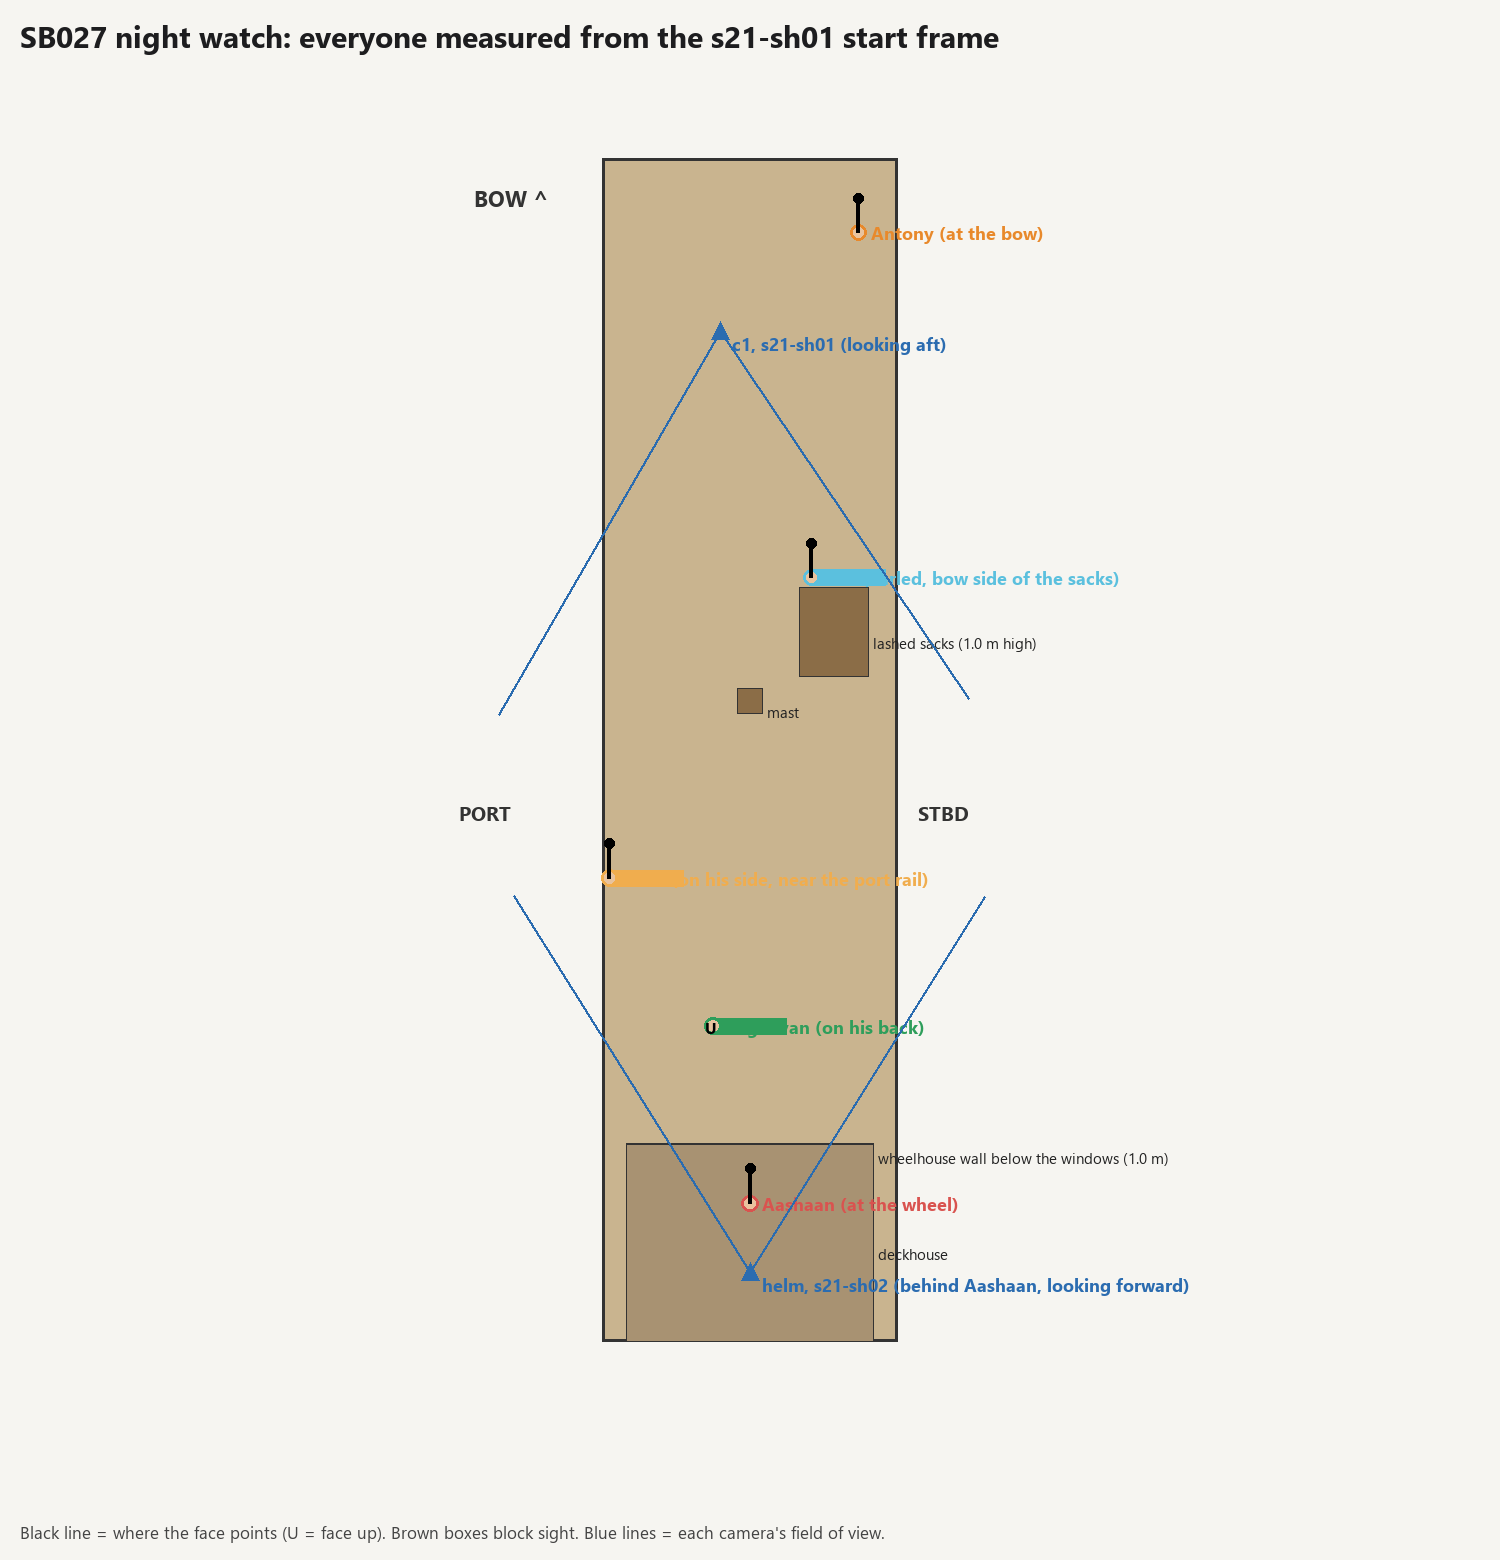
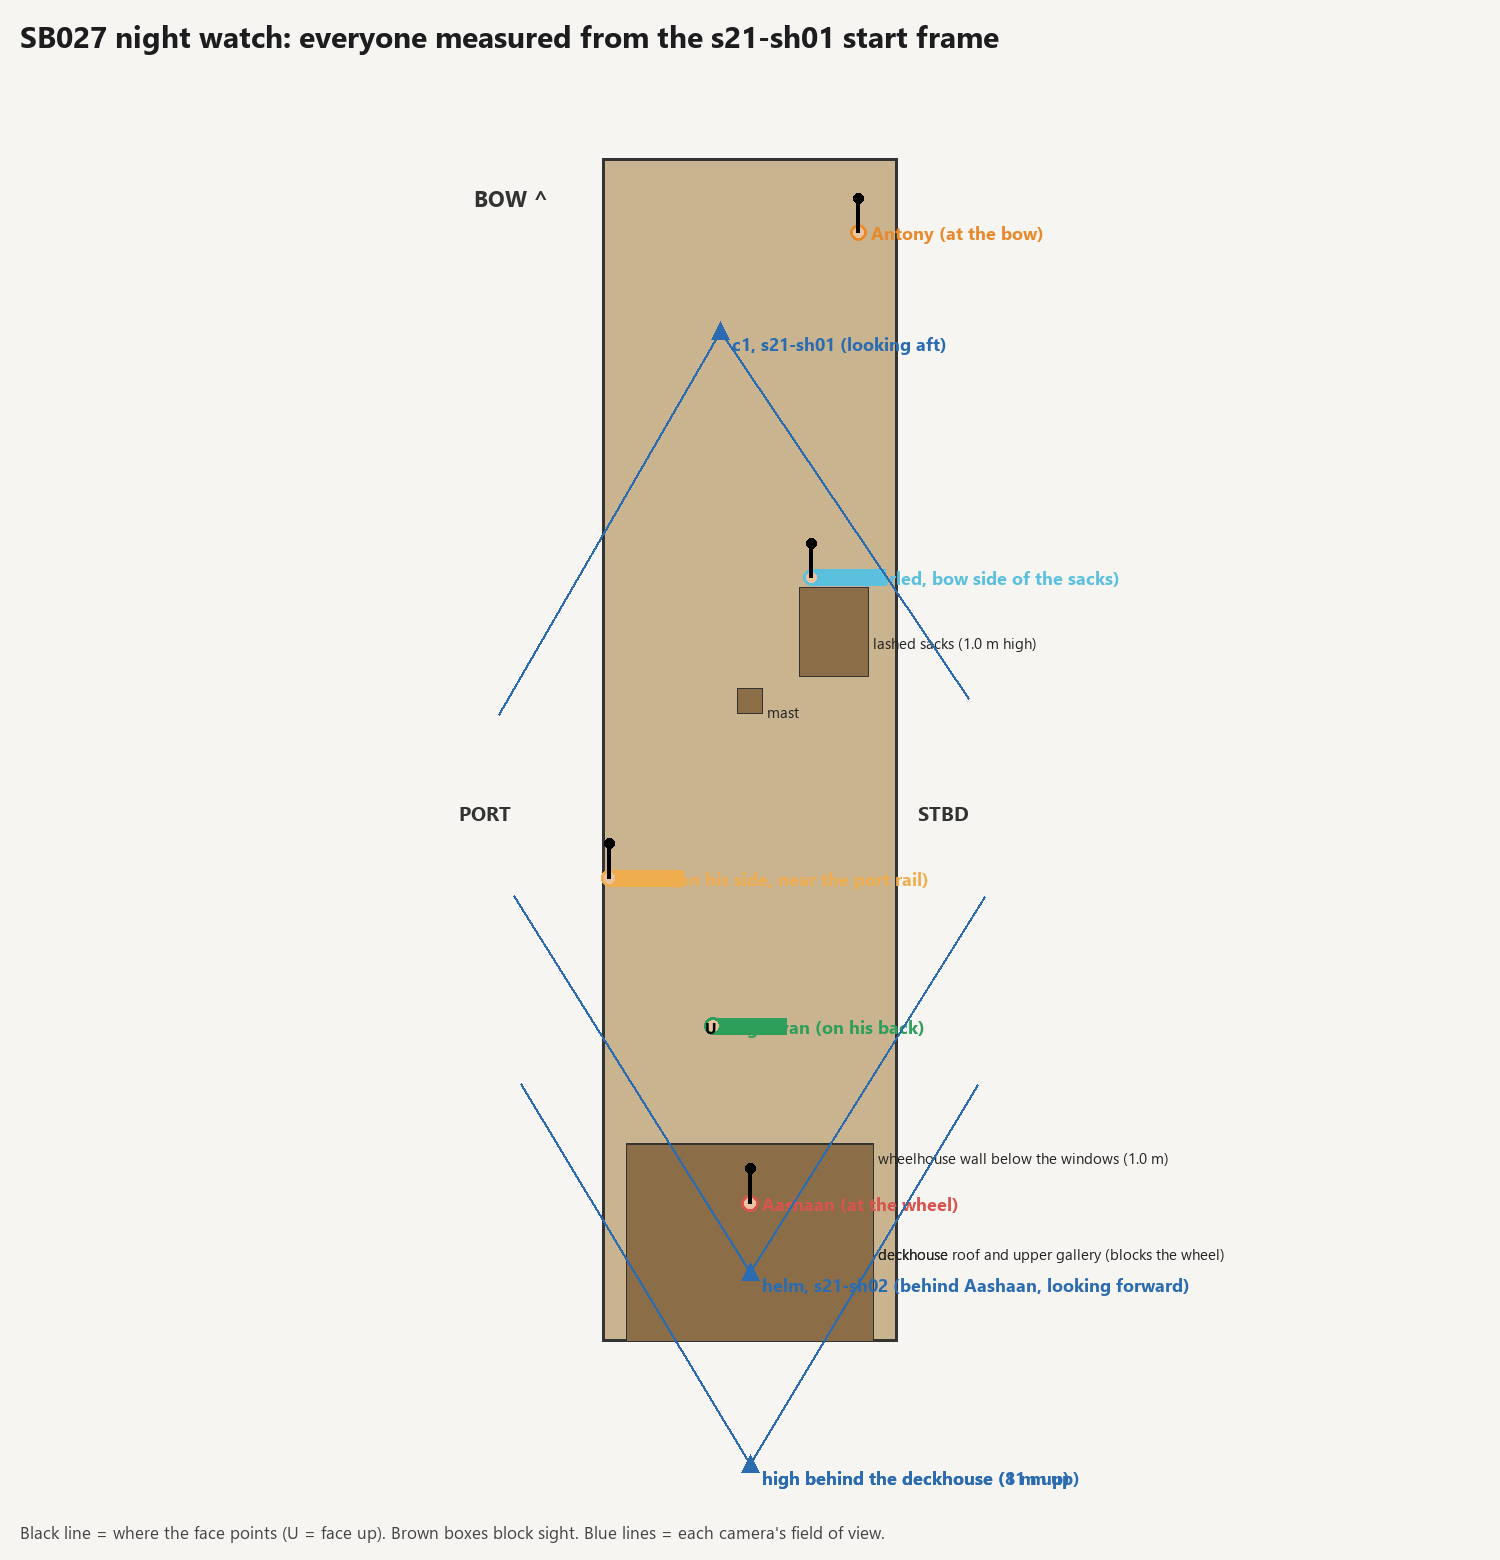
Ranjith: undo: s21-sh02 helm start not approved (only the s21-sh01 start is); high camera added to the SB027 map

Changed region(s): [[0.3987, 0.7077, 0.5827, 0.8615], [0.4907, 0.9231, 0.7053, 0.9538]]

diff --git a/INDEX.md b/INDEX.md
@@ -117,9 +117,8 @@ Status: `approved` · `waiting for approval` · `retired`
 | `@burningvallam` | Selvan's small Kerala fishing vallam burning at night: long, low, narrow, flat sides, no raised ends, no sail; white hull with faded blue band, nets and oars inside, fire strongest at one end, smoke column; no people | SB029–SB033, every shot where the burning boat is on screen; lock its size when far (ahead-LEFT of the bow); the moon in the image is not part of it | `props/burningvallam/prop.png` | Ranjith | 2026-11-07 | approved |
 | `@s21sh02start` | START frame of s21-sh02 (v2, Kling O1, natural low light): inside the deckhouse at night, Aashaan from directly behind at the wheel, both hands on the spokes, towel on his left shoulder, one dim lantern, Antony small at the bow through the window | Start image of s21-sh02 (and any helm shot from behind) | `scenes/showreel/approved/s21-sh02-start.png` | Ranjith | 2026-11-07 | retired (half moon; replaced by the full-moon version, 2026-11-11) |
 | `@s21sh02startfullmoon` | START frame of s21-sh02 on the full-moon night: Aashaan from directly behind at the wheel, both hands on the spokes, towel on his left shoulder, warm lantern; full moon high RIGHT through the windows, Antony small at the bow | Start image of s21-sh02 (replaces @s21sh02start) | `scenes/showreel/approved/s21-sh02-start-fullmoon.png` | Ranjith | 2026-11-11 | retired (old bow through the windows; replaced by the 2 version, L143) |
-| `@s21sh02startfullmoon2` | START frame of s21-sh02 on the full-moon night: Aashaan from directly behind at the wheel, both hands on the spokes, towel on his left shoulder, warm lantern; through the windows our bow as on @urubowplate, Antony small at the right-hand bulwark near the stem, full moon high RIGHT | Start image of s21-sh02 | `scenes/showreel/approved/s21-sh02-start-fullmoon2.png` | Ranjith | 2026-11-11 | retired (sleepers missing; replaced by @s21sh02startfullmoon3, L145/L146) |
+| `@s21sh02startfullmoon2` | START frame of s21-sh02 on the full-moon night: Aashaan from directly behind at the wheel, both hands on the spokes, towel on his left shoulder, warm lantern; through the windows our bow as on @urubowplate, Antony small at the right-hand bulwark near the stem, full moon high RIGHT | Start image of s21-sh02 | `scenes/showreel/approved/s21-sh02-start-fullmoon2.png` | Ranjith | 2026-11-11 | approved |
 | `@s21sh01startfullmoon` | START frame of s21-sh01 (21:9): main deck looking aft on the full-moon night, no moon in the sky; Aashaan at the wheel in the middle window; Raghavan on his back in the middle, Babu on his side near the port rail, Sasi curled on the bow side of the sacks; positions mapped in `storyboards/s21-sh01-sh02-sightlines.json` | Start image of s21-sh01 | `scenes/showreel/approved/s21-sh01-start-fullmoon.png` | Ranjith | 2026-11-12 | approved |
-| `@s21sh02startfullmoon3` | START frame of s21-sh02 (21:9), built from the measured map (L146): Aashaan from behind at the wheel; through the windows only Babu's back (left, through the door) and Antony's back at the right-hand bulwark; Sasi hidden by the sacks, Raghavan hidden below the sill; our bow; full moon in the right-hand window | Start image of s21-sh02 | `scenes/showreel/approved/s21-sh02-start-fullmoon3.png` | Ranjith | 2026-11-12 | approved |
 | `@s21sh03startfullmoon` | START frame of s21-sh03 (21:9): Antony from behind three-quarters at the right-hand bulwark of our bow (as on @urubowplate), left hand on the rail; full moon high RIGHT with its silver path; mast with its lantern at the left | Start image of s21-sh03 (and the bow view of SB028) | `scenes/showreel/approved/s21-sh03-start-fullmoon.png` | Ranjith | 2026-11-12 | approved |
 | `@steelplate` | Raghavan's steel plate and spoon, one prop: round worn stainless-steel thali about 30 cm, low rim, two small dents; plain steel table spoon about 18 cm (plate from above and on edge, spoon from above and side) | Every shot with the plate or spoon in frame (song on deck), with @raghavan: plate in his LEFT hand, spoon in his RIGHT; not for the fish-serving plate | `props/steelplate/prop.webp` | Aswanth | 2026-11-07 | approved |
 

diff --git a/scenes/showreel/storyboards/s21-sh01-sh02-sightlines.md b/scenes/showreel/storyboards/s21-sh01-sh02-sightlines.md
@@ -21,3 +21,23 @@ Made with `tools/sightlines.py` (L146).
 | Babu (on his side, near the port rail) | VISIBLE | whole body | BACK of the head |
 | Sasi (curled, bow side of the sacks) | HIDDEN | by lashed sacks (1.0 m high) |  |
 | Antony (at the bow) | VISIBLE | head, body only | BACK of the head |
+
+## Camera: high behind the deckhouse (8 m up)
+
+| Person | Seen? | What part | Face, back or side |
+|---|---|---|---|
+| Aashaan (at the wheel) | HIDDEN | by deckhouse roof and upper gallery (blocks the wheel) |  |
+| Raghavan (on his back) | HIDDEN | by deckhouse roof and upper gallery (blocks the wheel) |  |
+| Babu (on his side, near the port rail) | VISIBLE | whole body | BACK of the head |
+| Sasi (curled, bow side of the sacks) | VISIBLE | feet only | BACK of the head |
+| Antony (at the bow) | VISIBLE | whole body | BACK of the head |
+
+## Camera: high behind the deckhouse (11 m up)
+
+| Person | Seen? | What part | Face, back or side |
+|---|---|---|---|
+| Aashaan (at the wheel) | HIDDEN | by deckhouse roof and upper gallery (blocks the wheel) |  |
+| Raghavan (on his back) | VISIBLE | whole body | FACE |
+| Babu (on his side, near the port rail) | VISIBLE | whole body | BACK of the head |
+| Sasi (curled, bow side of the sacks) | VISIBLE | feet only | BACK of the head |
+| Antony (at the bow) | VISIBLE | whole body | BACK of the head |
